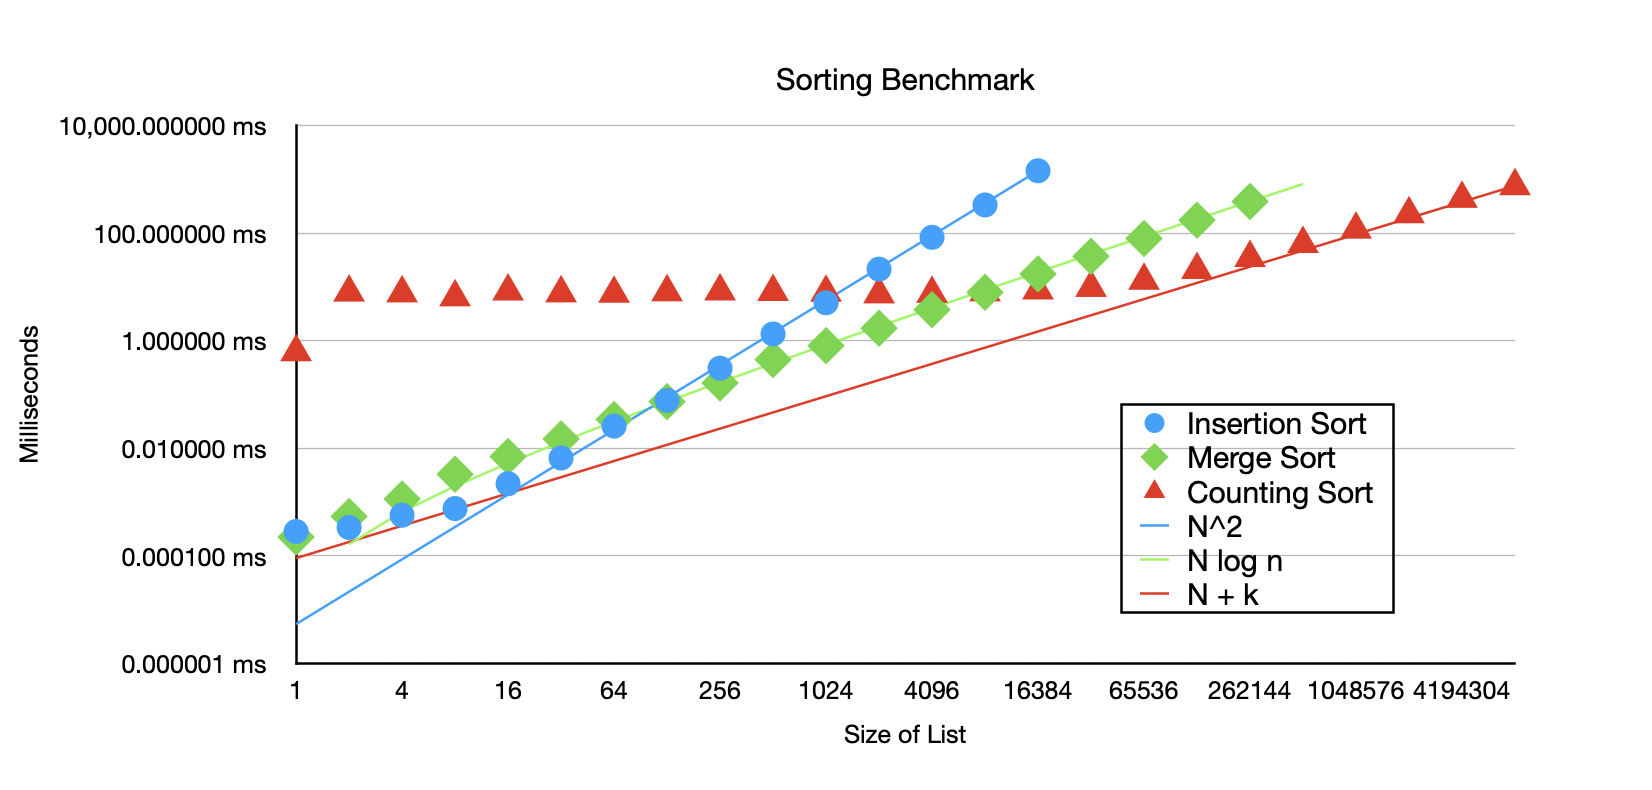
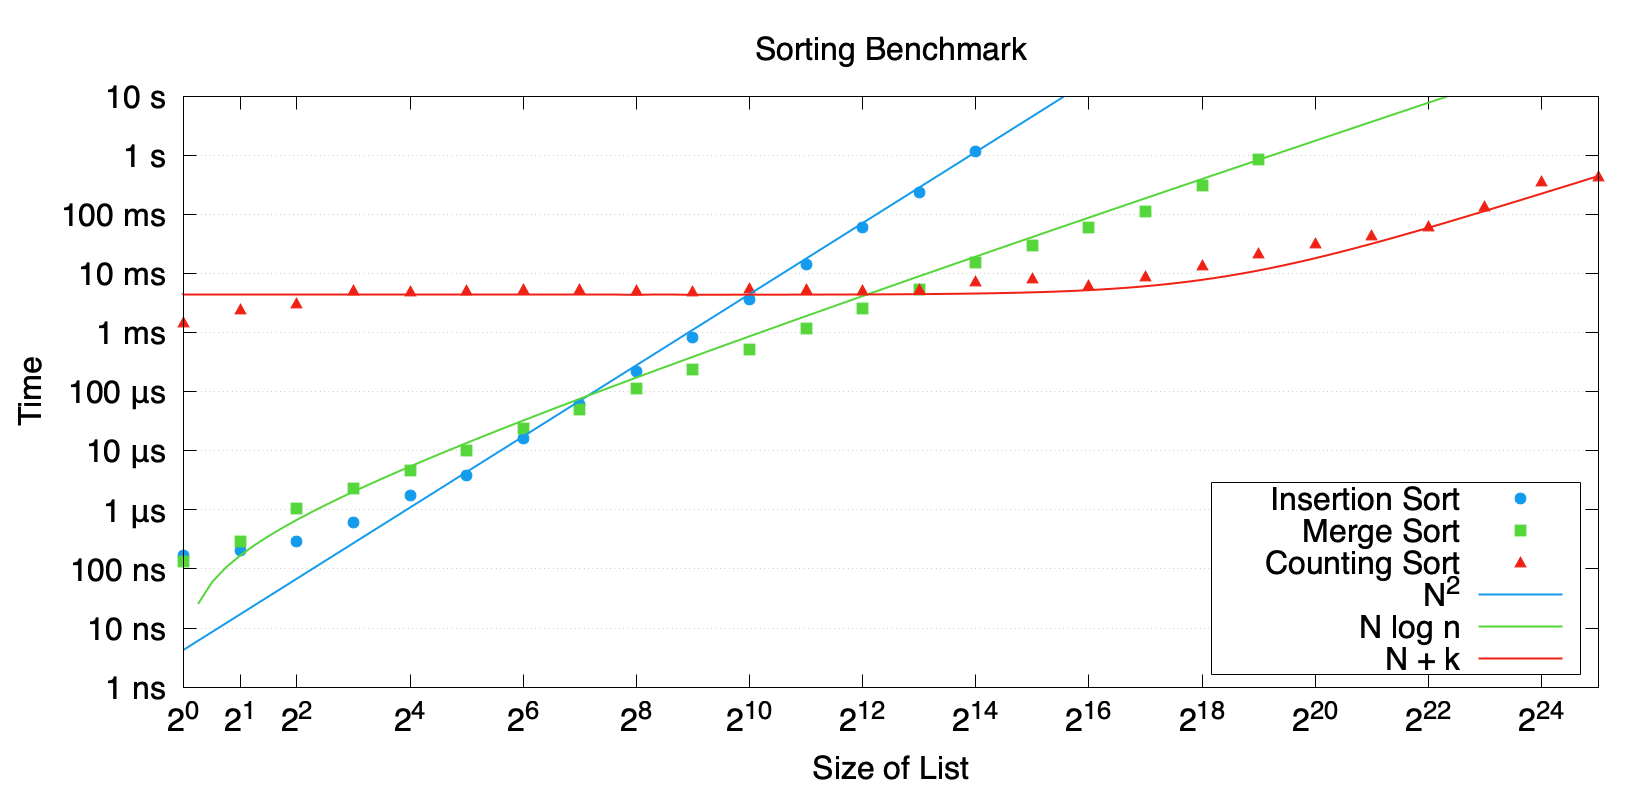
Add reproducible benchmark graph generation

diff --git a/README.md b/README.md
@@ -30,6 +30,24 @@ lake exe lean-sorting generate-numbers 10 100
 lake exe lean-sorting benchmark
 ```
 
+## Benchmark Graph
+
+The benchmark emits CSV. To regenerate `benchmark.png` without Numbers, install
+`gnuplot` and run:
+
+```sh
+lake exe lean-sorting benchmark > benchmark.csv
+gnuplot scripts/benchmark.gnuplot
+```
+
+The `N + k` reference curve uses `k = 1000000`, matching the benchmark default.
+If you run the benchmark with a different max value, pass it to gnuplot:
+
+```sh
+lake exe lean-sorting benchmark 500000 > benchmark.csv
+gnuplot -e "max_value=500000" scripts/benchmark.gnuplot
+```
+
 ## Layout
 
 - `LeanSorting/Sorting.lean` defines the sorting contract.
